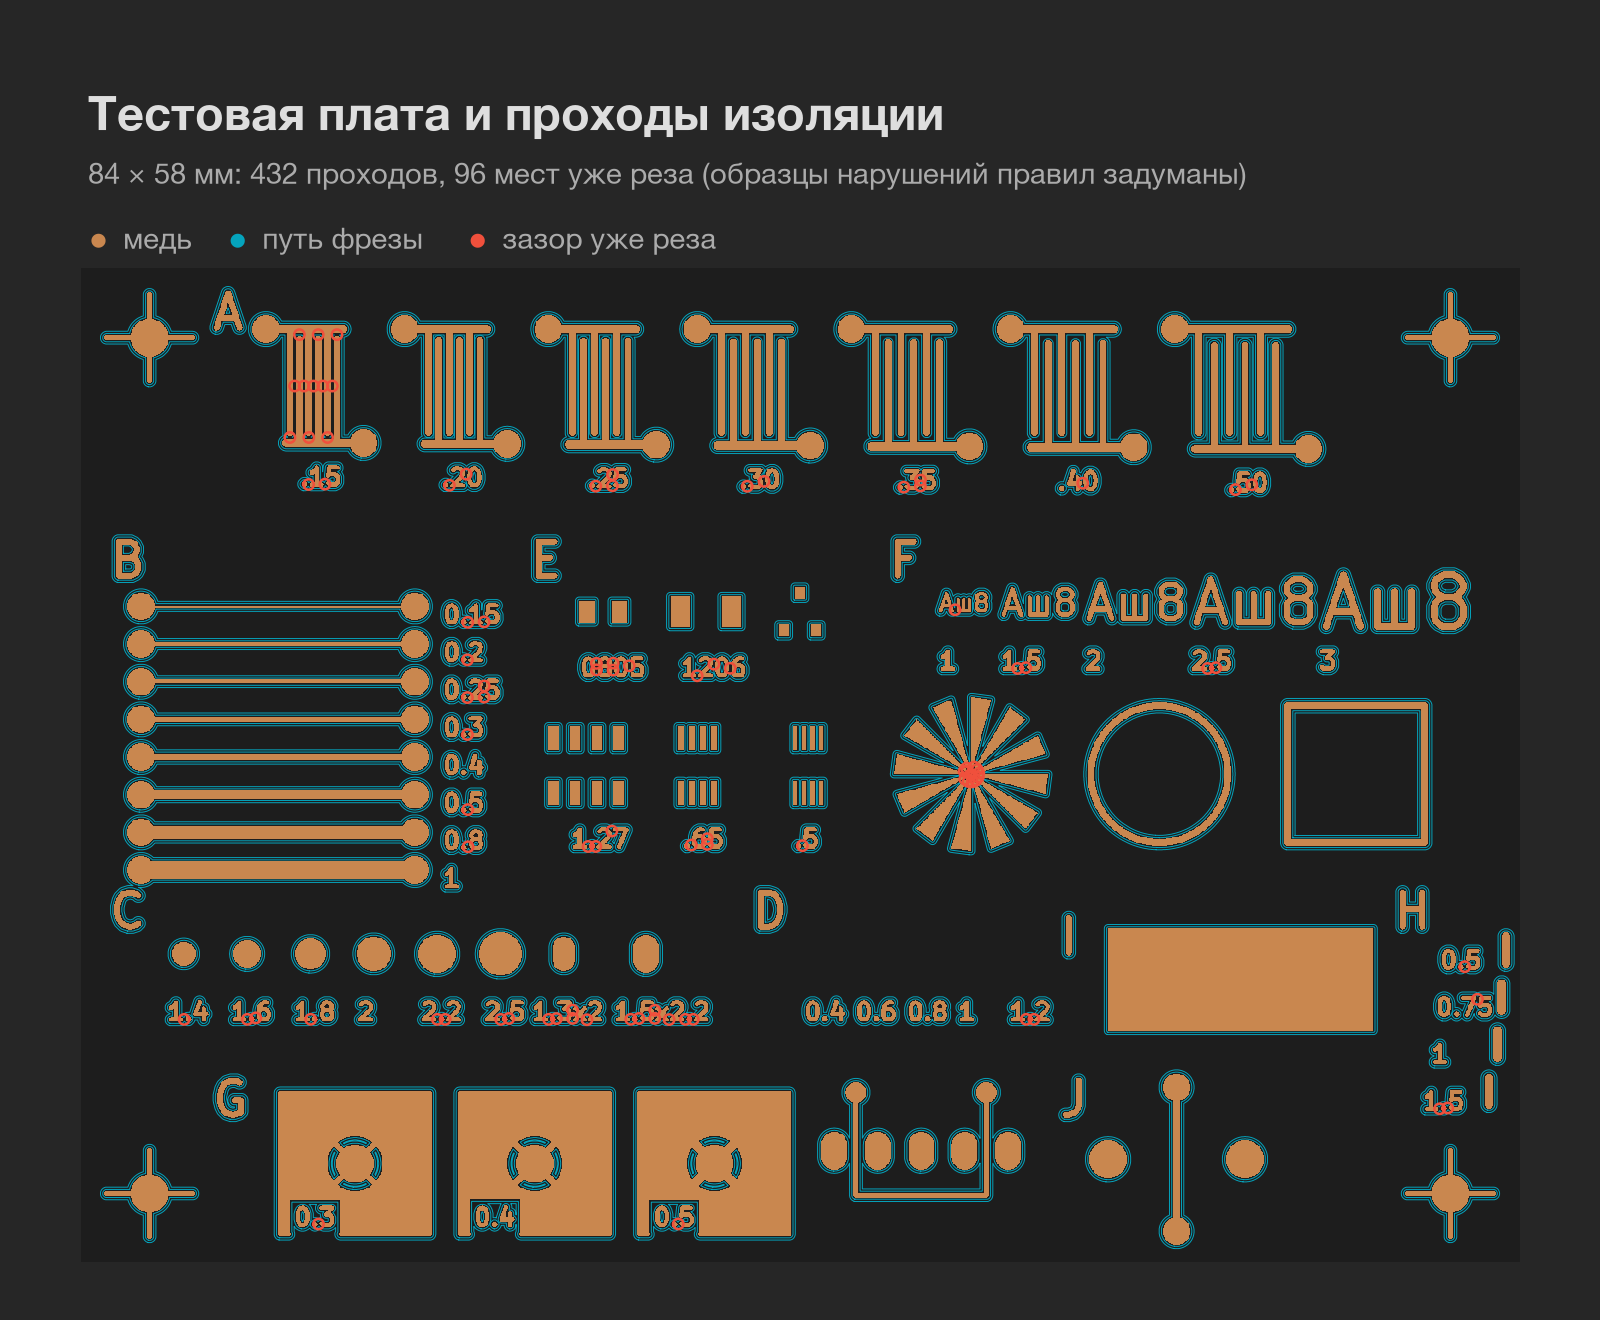
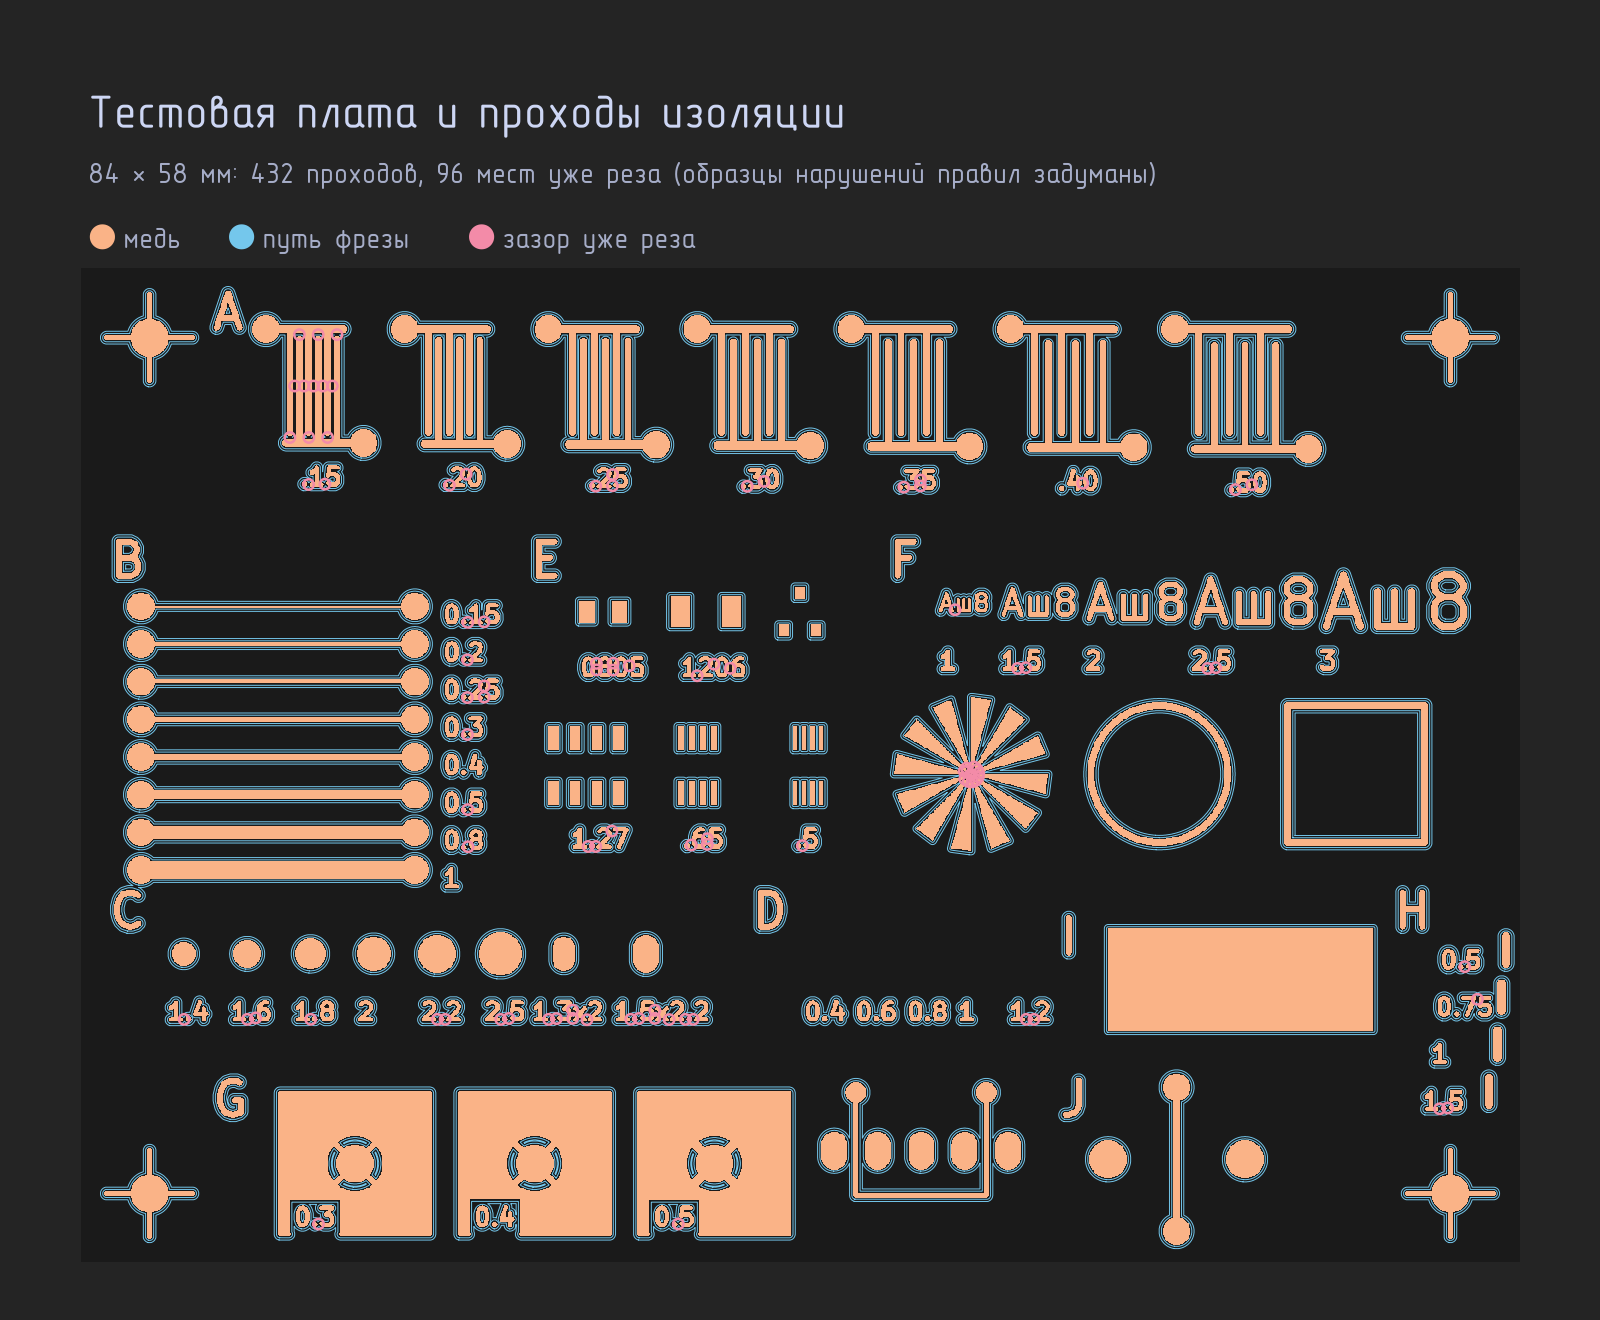
Статья: фирменный стиль рисунков (GOST Type BU, Catppuccin на тёмно-сером), обложка 1560×880

diff --git a/docs/article/figures.py b/docs/article/figures.py
@@ -7,8 +7,9 @@ of distances, the isolation passes and the shorts into data/*.json. The rest
 are measurements copied from the notes that recorded them, named next to each
 constant, so the text and the pictures read the same numbers.
 
-Each figure is a self-contained card in Habr's dark colours (#262626), filled
-edge to edge.
+Each figure is a self-contained card, filled edge to edge: a neutral dark grey
+ground, the Catppuccin Mocha colours on it and the GOST Type BU font
+(docs/fonts/GOSTtypeB.ttf).
 
 Run:  make article-figs   ->  docs/article/img/*.png
 
@@ -61,18 +62,18 @@ AGAINST_PY = ((1291, 1293), (564, 563), (3329, 3328), (5813, 5813))
 # ==============================
 
 C = {
-    "card": "#262626",     # Habr dark --background-secondary
-    "ink": "#dedede",      # --text-main
-    "muted": "#ababab",    # --text-secondary
+    "card": "#242424",     # neutral dark grey, no blue in it
+    "ink": "#cdd6f4",      # Catppuccin Mocha: Text
+    "muted": "#a6adc8",    # Subtext 0
     "track": "#333333",
-    "grid": "#383838",
-    "mine": "#05a4bd",     # tool paths, my side of a comparison
-    "warn": "#f0503c",     # shorts, the edge of the rules
-    "naive": "#6e6e6e",
-    "copper": "#c9874f",
-    "board": "#1d1d1d",
-    "fwd": "#05a4bd",
-    "back": "#c434f4",
+    "grid": "#3a3a3a",
+    "mine": "#74c7ec",     # Sapphire: tool paths, my side of a comparison
+    "warn": "#f38ba8",     # Red: shorts, the edge of the rules
+    "naive": "#6c7086",    # Overlay 0
+    "copper": "#fab387",   # Peach
+    "board": "#1a1a1a",
+    "fwd": "#74c7ec",      # Sapphire
+    "back": "#cba6f7",     # Mauve
 }
 W = 8.0
 DPI = 200
@@ -80,11 +81,9 @@ PILL = 13
 
 
 def style():
-    have = {f.name for f in font_manager.fontManager.ttflist}
-    sans = next((n for n in ("Helvetica Neue", "Helvetica", "Arial", "DejaVu Sans")
-                 if n in have), "sans-serif")
+    font_manager.fontManager.addfont(str(HERE.parent / "fonts" / "GOSTtypeB.ttf"))
     rcParams.update({
-        "font.family": "sans-serif", "font.sans-serif": [sans], "font.size": 11,
+        "font.family": "GOST Type BU", "font.size": 11,
         "text.color": C["ink"], "axes.labelcolor": C["muted"],
         "xtick.color": C["muted"], "ytick.color": C["muted"],
         "axes.edgecolor": C["grid"], "figure.dpi": DPI, "savefig.dpi": DPI,
@@ -107,7 +106,7 @@ def card(height: float, title: str, subtitle: str, legend=()):
              color=C["muted"], va="top")
     x = 0.055
     for label, key in legend:
-        fig.text(x, top - 0.68 / height, "●", fontsize=12, color=C[key], va="top")
+        fig.text(x, top - 0.68 / height, "●", fontsize=12, color=C[key], va="top", family="DejaVu Sans")
         fig.text(x + 0.022, top - 0.685 / height, label, fontsize=10.5,
                  color=C["muted"], va="top")
         x += 0.045 + 0.0105 * len(label)
@@ -203,7 +202,7 @@ def fig_width():
     t = math.tan(math.radians(ANGLE / 2))
     cu, half, top, low = 0.035, 0.19, 0.16, -0.2
     # Two colours for the material, white for the marks.
-    FR4, CU = "#353535", "#d4864a"
+    FR4, CU = "#353535", C["copper"]
     for i, d in enumerate((0.05, 0.1, 0.15)):
         ax = fig.add_axes([0.035 + i * 0.315, 0.04, 0.3, 0.7])
         ax.set_facecolor("none")
@@ -252,7 +251,7 @@ def fig_pipeline():
         ax.set_facecolor(C["board"])
     copper_img(a[0], cr)
     panel(a[0], box, "1. медь в пикселях")
-    cmap = LinearSegmentedColormap.from_list("fd", [C["board"], "#0b5563", C["mine"], "#bff3fb"])
+    cmap = LinearSegmentedColormap.from_list("fd", [C["board"], "#24485a", C["mine"], "#dcf2fb"])
     a[1].imshow(np.minimum(mm, 0.5), origin="lower", extent=box, cmap=cmap, interpolation="bilinear")
     panel(a[1], box, "2. расстояние до меди")
     copper_img(a[2], cr, 0.55)
@@ -390,7 +389,7 @@ def board_photo():
         b.append(v)
     coef = np.linalg.solve(np.array(a, float), np.array(b, float))
     board = im.transform((w, h), Image.PERSPECTIVE, tuple(coef), Image.BICUBIC)
-    return board.crop((70, 6, 1640, h - 6))
+    return board.crop((48, 4, 1650, h - 4))
 
 
 def fig_cover():
@@ -410,7 +409,7 @@ def fig_cover():
              color=C["muted"], va="top", linespacing=1.45)
     fig.text(0.05, 0.1, "дорожка и зазор 0,2 мм", fontsize=12, color=C["ink"], va="bottom")
     OUT.mkdir(exist_ok=True)
-    fig.savefig(OUT / "cover.png", dpi=100, facecolor=C["card"])
+    fig.savefig(OUT / "cover.png", dpi=200, facecolor=C["card"])
     plt.close(fig)
     print("  cover.png")
 
